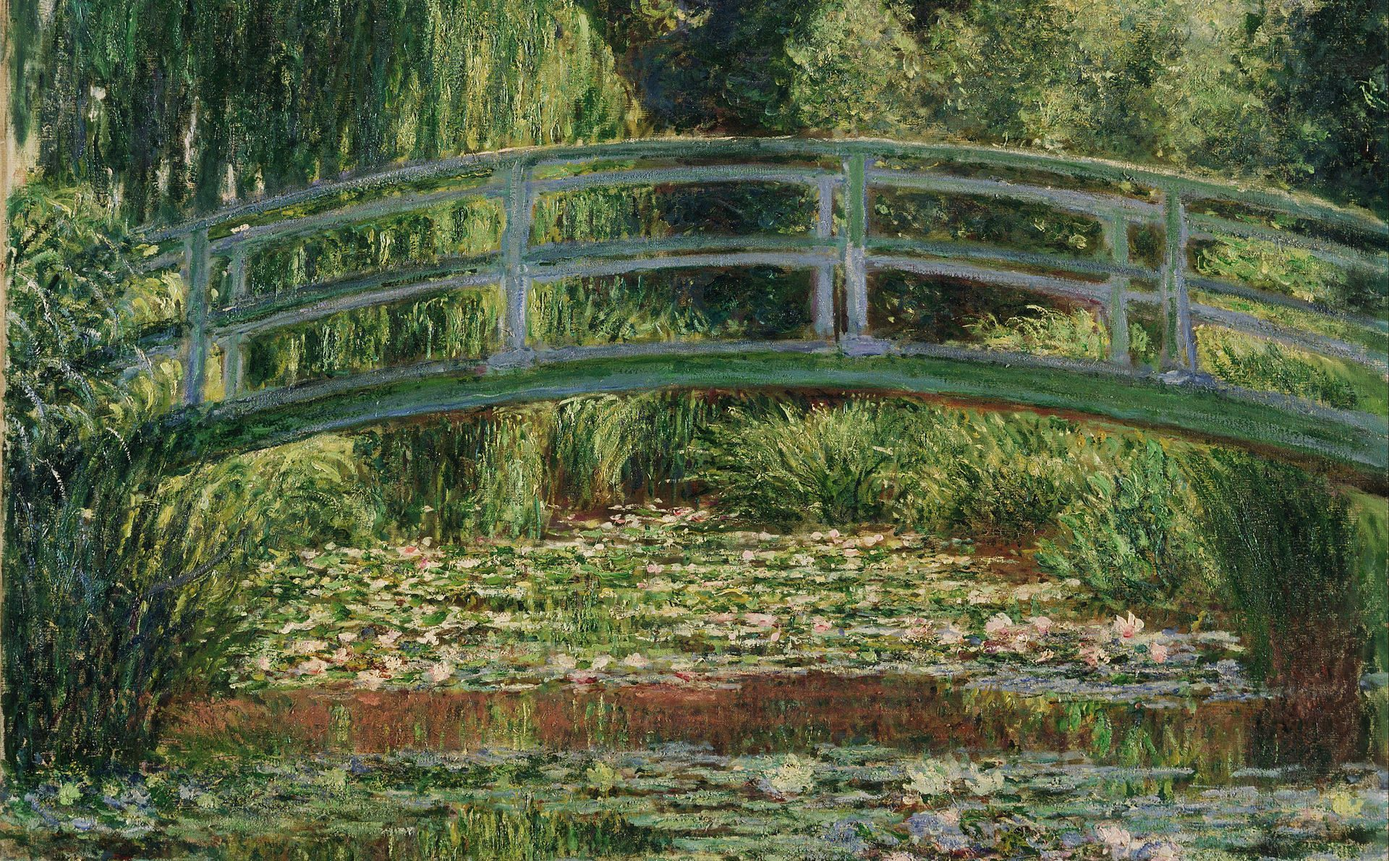
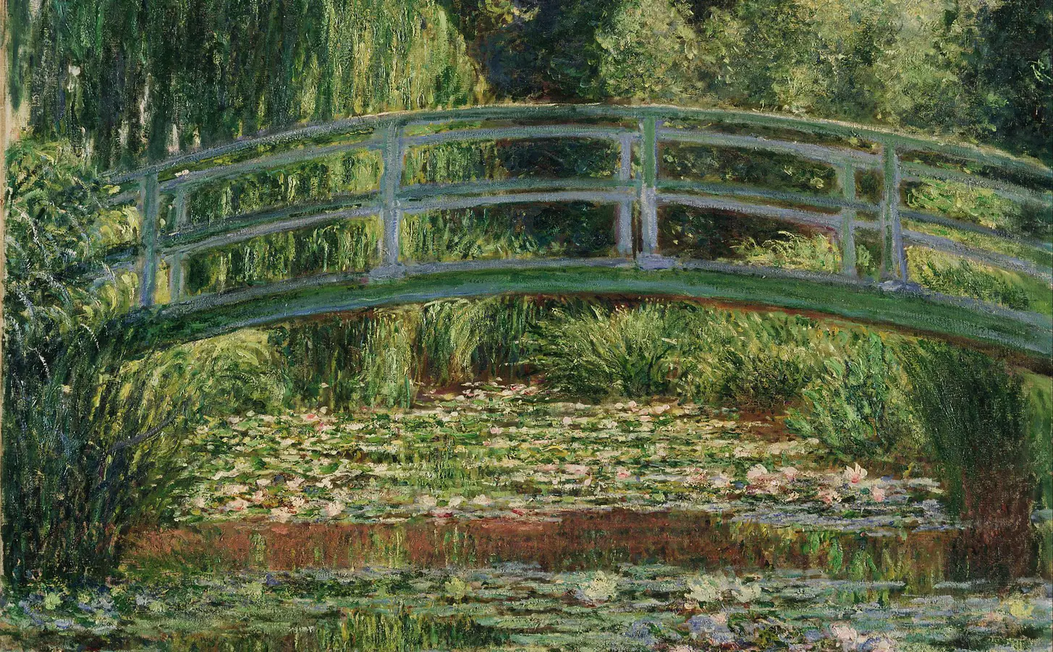
Re-encode live hero and break WebPs under 400KB (#36)
Keep the same paths. Cap width near 1920 where quality 75 still fits the Hortus budget, and record the new pixel sizes for Niagara, Monet, and Eden.

diff --git a/lib/assets.ts b/lib/assets.ts
@@ -126,8 +126,8 @@ const sacredArt: ImageAsset[] = [
     src: '/images/art-sacred/garden-of-eden-rubens-breughel.webp',
     alt: 'The Garden of Eden by Rubens and Brueghel showing paradise before the fall with abundant flora and fauna',
     caption: 'The Enclosed Garden: innocence and wonder restored',
-    width: 1800,
-    height: 1350,
+    width: 1794,
+    height: 1159,
     focalPoint: { x: 50, y: 45 }, // Center with slight upward bias for primary figures
     stage: 'musical',
     category: 'beauty',
@@ -244,8 +244,8 @@ const landscapes: ImageAsset[] = [
     src: '/images/landscapes/claude-monet-japanese-footbridge.webp',
     alt: 'Claude Monet\'s Japanese Footbridge painting showing water lilies and lush garden',
     caption: 'Wonder discovered in contemplation of created beauty',
-    width: 1920,
-    height: 1190,
+    width: 1455,
+    height: 902,
     focalPoint: { x: 50, y: 40 },
     stage: 'musical',
     category: 'beauty',
@@ -290,8 +290,8 @@ const landscapes: ImageAsset[] = [
     src: '/images/landscapes/thomas-cole-niagara-falls.webp',
     alt: 'Thomas Cole\'s painting of Niagara Falls showing powerful cascading water and mist',
     caption: 'Power and majesty: the sublime meets the beautiful',
-    width: 1800,
-    height: 1416,
+    width: 1920,
+    height: 1510,
     focalPoint: { x: 50, y: 35 }, 
     stage: 'gymnastic',
     category: 'beauty',
